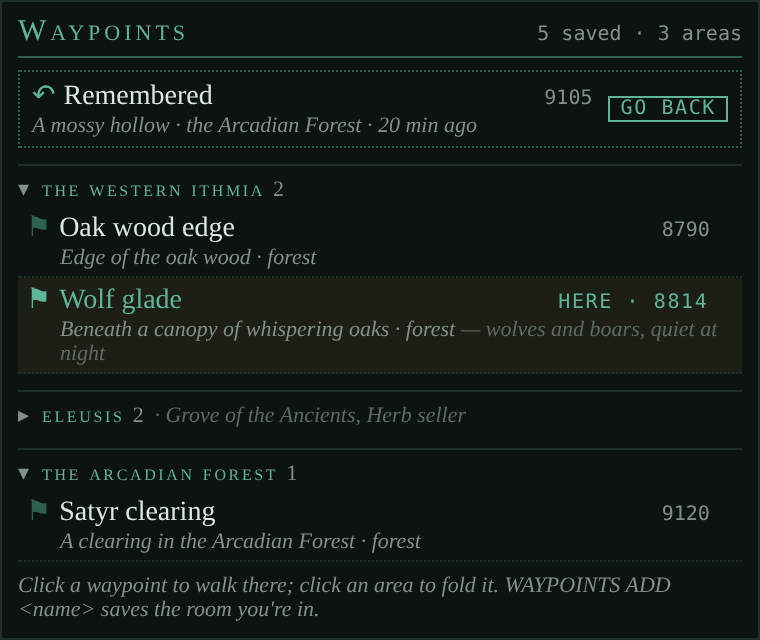
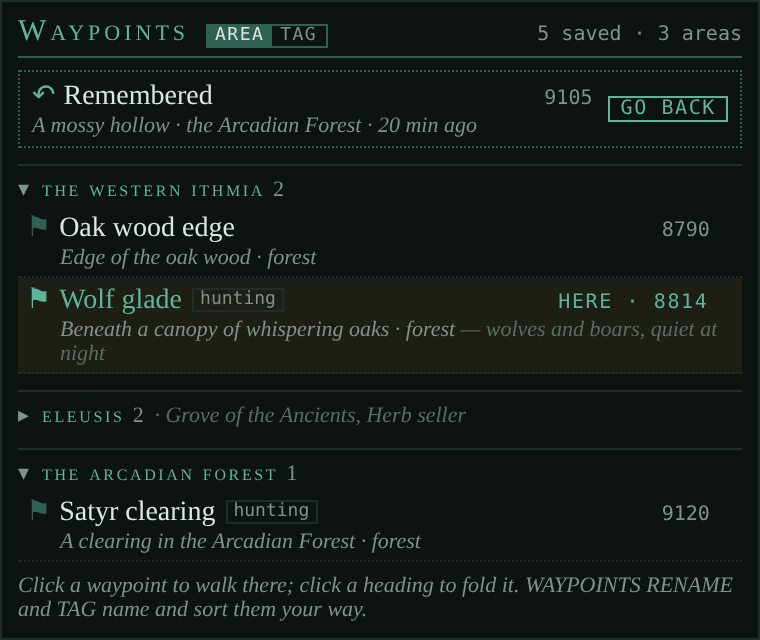
waypoints 0.2.0: tags, and the tab by area or by tag
Ricardo: several tags per waypoint (one word each, lower case), shown as
chips after the name; AREA · TAG on the title line (and WAYPOINTS VIEW
AREA|TAG) groups the tab by area or by tag, kept in waypoints_view. By
tag: a waypoint under each of its tags, alphabetical, untagged last, line
2 shows the area; tag groups fold (tag:<tag> in waypoints_folded).
Commands TAG, UNTAG (ALL), TAGS. Screenshot story tags four waypoints.

Claude-Session: https://claude.ai/code/session_019eyV5GfwXVVA9PCk5zPZet

diff --git a/packages/waypoints/waypoints_render.js b/packages/waypoints/waypoints_render.js
@@ -37,26 +37,39 @@ function chip(label, fn, col, border, tip) {
 var here = WP.here || {};
 var hereW = here.id ? WP.byId(here.id) : null;
 
-// Group by area: the area you're in first, then the rest by name.
-var groups = {}, order = [];
+// Groups, keyed as they fold: by area (the area you're in first, then the
+// rest by name), or by tag ("tag:<tag>", by name, a waypoint under each of
+// its tags; "tag:" for the untagged, last).
+var byTag = WP.view === "tag";
+var groups = {}, order = [], label = {};
+function put(key, lbl, w) { if (!groups[key]) { groups[key] = []; order.push(key); label[key] = lbl; } groups[key].push(w); }
 for (var i = 0; i < WP.list.length; i++) {
-  var a = WP.list[i].area || "unknown area";
-  if (!groups[a]) { groups[a] = []; order.push(a); }
-  groups[a].push(WP.list[i]);
+  var wi = WP.list[i];
+  if (!byTag) put(wi.area || "unknown area", wi.area || "unknown area", wi);
+  else if (!wi.tags.length) put("tag:", "untagged", wi);
+  else for (var ti = 0; ti < wi.tags.length; ti++) put("tag:" + wi.tags[ti], wi.tags[ti], wi);
 }
 order.sort(function (x, y) {
-  if (x === here.area) return -1;
-  if (y === here.area) return 1;
+  if (byTag) { if (x === "tag:") return 1; if (y === "tag:") return -1; }
+  else { if (x === here.area) return -1; if (y === here.area) return 1; }
   return x.toLowerCase() < y.toLowerCase() ? -1 : (x.toLowerCase() > y.toLowerCase() ? 1 : 0);
 });
 WP.areasDrawn = order.slice();
+var nGroups = 0;
+for (var ng = 0; ng < order.length; ng++) if (order[ng] !== "tag:") nGroups++;
 
 var html = '<div id="loom-waypoints" style="font-family:' + MONO + ';font-size:10px;color:' + TXT + ';background:' + BG + ';border:1px solid ' + RULE + ';padding:7px 8px 8px;min-height:100%;box-sizing:border-box;display:flex;flex-direction:column;">';
 
 // Title.
-var count = WP.list.length + ' saved' + (order.length ? ' &middot; ' + order.length + (order.length === 1 ? ' area' : ' areas') : '');
+var count = WP.list.length + ' saved' + (nGroups ? ' &middot; ' + nGroups + (byTag ? (nGroups === 1 ? ' tag' : ' tags') : (nGroups === 1 ? ' area' : ' areas')) : '');
+// AREA · TAG: how the list is grouped (remembered).
+function seg(v, lbl) {
+  var on = WP.view === v;
+  return '<span onclick="window.loomWaypoints&&window.loomWaypoints.view(\'' + v + '\')" title="group by ' + v + '" style="cursor:pointer;padding:0 4px;' + (on ? 'background:' + DEEP + ';color:' + TXT + ';' : 'color:' + MUTED + ';') + '">' + lbl + '</span>';
+}
+var viewSw = '<span style="flex:none;border:1px solid ' + DEEP + ';letter-spacing:0.08em;white-space:nowrap;font-size:9px;">' + seg("area", "AREA") + seg("tag", "TAG") + '</span>';
 html += '<div style="display:flex;justify-content:space-between;align-items:baseline;gap:8px;border-bottom:1px solid ' + DEEP + ';padding-bottom:3px;">';
-html += '<span style="font-family:' + SERIF + ';font-variant:small-caps;letter-spacing:2px;font-size:15px;color:' + AMBER + ';">Waypoints</span>';
+html += '<span style="display:flex;align-items:baseline;gap:8px;"><span style="font-family:' + SERIF + ';font-variant:small-caps;letter-spacing:2px;font-size:15px;color:' + AMBER + ';">Waypoints</span>' + (WP.list.length ? viewSw : '') + '</span>';
 html += '<span style="display:flex;align-items:baseline;gap:8px;"><span style="color:' + MUTED + ';">' + count + '</span>';
 if (here.id && !hereW) html += chip('&#8853; ADD HERE', 'add()', MUTED, DEEP, 'save the room you\'re in under its own title (WAYPOINTS RENAME to change it)');
 html += '</span></div>';
@@ -80,9 +93,18 @@ if (rem && rem.id) {
   html += '<span style="flex:none;padding:0 5px;border:1px solid ' + DEEP + ';color:' + MUTED + ';letter-spacing:0.08em;white-space:nowrap;">REMEMBER HERE</span></div>';
 }
 
-// The waypoints, by area.
+// The waypoints, by area or by tag.
+function tagChips(w, skip) {
+  var out = "";
+  for (var t = 0; t < w.tags.length; t++) {
+    if (w.tags[t] === skip) continue;
+    out += '<span style="display:inline-block;margin-left:5px;padding:0 3px;border:1px solid ' + RULE + ';color:' + MUTED + ';font-family:' + MONO + ';font-size:9px;font-style:normal;letter-spacing:0;vertical-align:2px;">' + esc(w.tags[t]) + '</span>';
+  }
+  return out;
+}
 for (var g = 0; g < order.length; g++) {
-  var area = order[g], ws = groups[area], folded = !!WP.folded[area];
+  var gk = order[g], ws = groups[gk], folded = !!WP.folded[gk];
+  var curTag = byTag && gk !== "tag:" ? gk.substring(4) : "";
   var names = "";
   if (folded) {
     var nl = [];
@@ -90,17 +112,17 @@ for (var g = 0; g < order.length; g++) {
     names = ' <span style="color:' + DIM + ';font-variant:normal;letter-spacing:0;font-style:italic;">&middot; ' + nl.join(', ') + '</span>';
   }
   html += '<div onclick="window.loomWaypoints&&window.loomWaypoints.fold(' + g + ')" title="click to ' + (folded ? 'unfold' : 'fold') + '" style="cursor:pointer;font-family:' + SERIF + ';font-variant:small-caps;letter-spacing:0.12em;font-size:11px;color:' + AMBER + ';margin:8px 0 2px;border-top:1px solid ' + RULE + ';padding-top:5px;">';
-  html += '<span style="font-family:' + SYM + ';display:inline-block;width:12px;color:' + MUTED + ';">' + (folded ? '&#9656;' : '&#9662;') + '</span>' + esc(area.toLowerCase()) + ' <span style="color:' + MUTED + ';">' + ws.length + '</span>' + names + '</div>';
+  html += '<span style="font-family:' + SYM + ';display:inline-block;width:12px;color:' + MUTED + ';">' + (folded ? '&#9656;' : '&#9662;') + '</span>' + esc(label[gk].toLowerCase()) + ' <span style="color:' + MUTED + ';">' + ws.length + '</span>' + names + '</div>';
   if (folded) continue;
   for (var k = 0; k < ws.length; k++) {
     var w = ws[k], isHere = here.id === w.id;
     var tip = isHere ? "you're here" : "walk to " + w.name + " (PATH FIND " + w.id + ")";
     html += '<div class="loom-wp-row" onclick="window.loomWaypoints&&window.loomWaypoints.go(\'' + js(w.id) + '\')" title="' + esc(tip) + '" style="cursor:pointer;padding:3px 4px;border-bottom:1px dotted ' + RULE + ';' + (isHere ? 'background:rgba(224,180,108,0.08);' : '') + '">';
     html += '<div style="display:flex;justify-content:space-between;align-items:baseline;gap:8px;">';
-    html += '<span style="min-width:0;font-family:' + SERIF + ';font-size:14px;color:' + (isHere ? AMBER : TXT) + ';"><span style="font-family:' + SYM + ';color:' + (isHere ? AMBER : DEEP) + ';margin-right:4px;">&#9873;</span>' + esc(w.name) + '</span>';
+    html += '<span style="min-width:0;font-family:' + SERIF + ';font-size:14px;color:' + (isHere ? AMBER : TXT) + ';"><span style="font-family:' + SYM + ';color:' + (isHere ? AMBER : DEEP) + ';margin-right:4px;">&#9873;</span>' + esc(w.name) + tagChips(w, curTag) + '</span>';
     html += '<span style="flex:none;white-space:nowrap;color:' + (isHere ? AMBER : MUTED) + ';' + (isHere ? 'letter-spacing:0.08em;' : '') + '">' + (isHere ? 'HERE &middot; ' : '') + esc(w.id);
     html += '<span class="loom-wp-x" onclick="event.stopPropagation();window.loomWaypoints&&window.loomWaypoints.remove(\'' + js(w.id) + '\')" title="remove ' + esc(w.name) + '" style="cursor:pointer;margin-left:6px;color:#ff9a4c;">&times;</span></span></div>';
-    var line2 = [w.room, (w.env || "").toLowerCase()].filter(function (s) { return s; }).map(esc).join(' &middot; ');
+    var line2 = [w.room, byTag ? w.area : (w.env || "").toLowerCase()].filter(function (s) { return s; }).map(esc).join(' &middot; ');
     html += '<div style="font-family:' + SERIF + ';font-style:italic;font-size:11px;color:' + MUTED + ';padding-left:17px;">' + line2 + (w.note ? ' <span style="color:' + DIM + ';">&mdash; ' + esc(w.note) + '</span>' : '') + '</div>';
     html += '</div>';
   }
@@ -108,7 +130,7 @@ for (var g = 0; g < order.length; g++) {
 if (!WP.list.length) {
   html += '<div style="margin-top:8px;font-family:' + SERIF + ';font-style:italic;font-size:12px;color:' + MUTED + ';">No waypoints yet.</div>';
 }
-html += '<div style="margin-top:auto;padding-top:6px;font-family:' + SERIF + ';font-style:italic;font-size:11px;color:' + MUTED + ';">Click a waypoint to walk there; click an area to fold it. WAYPOINTS RENAME gives a waypoint your own name.</div>';
+html += '<div style="margin-top:auto;padding-top:6px;font-family:' + SERIF + ';font-style:italic;font-size:11px;color:' + MUTED + ';">Click a waypoint to walk there; click a heading to fold it. WAYPOINTS RENAME and TAG name and sort them your way.</div>';
 html += '</div>';
 
 // The whole tab in the panel's colour (#355); the × shows on a row's hover.

diff --git a/packages/waypoints/waypoints_setup.js b/packages/waypoints/waypoints_setup.js
@@ -5,13 +5,16 @@
 if (!client.loom) client.loom = {};
 if (!client.loom.registry) client.loom.registry = {};
 if (!client.loom.waypoints) client.loom.waypoints = {};
-client.loom.registry.waypoints = { version: "0.1.1", keyword: "WAYPOINTS", desc: "{{description}}",
+client.loom.registry.waypoints = { version: "0.2.0", keyword: "WAYPOINTS", desc: "{{description}}",
   redraw: function () { run_function("waypoints_render", [], "waypoints"); } };
 var WP = client.loom.waypoints;
 
-// Saved: waypoints_list = [{ id, name, note, room, area, env, at }], where
+// Saved: waypoints_list = [{ id, name, note, room, area, env, at, tags }], where
 // room, area and env are the game's, read when the waypoint was added;
-// waypoints_folded = [area, …], the areas folded in the tab. A variable that
+// tags are your own words (lower case, several per waypoint);
+// waypoints_folded = [area, …, "tag:<tag>", …], the groups folded in the tab
+// ("tag:" alone is the untagged group); waypoints_view = "tag" when the tab
+// groups by tag (absent: by area). A variable that
 // isn't readable starts afresh (#135).
 WP.readList = function (name) {
   var v = get_variable(name);
@@ -23,11 +26,14 @@ var wpRaw = WP.readList("waypoints_list");
 for (var wpI = 0; wpI < wpRaw.length; wpI++) {
   var wpE = wpRaw[wpI];
   if (!wpE || typeof wpE != "object" || !/^\d+$/.test(String(wpE.id || "")) || !String(wpE.name || "").trim()) continue;
-  WP.list.push({ id: String(wpE.id), name: String(wpE.name).trim(), note: String(wpE.note || ""), room: String(wpE.room || ""), area: String(wpE.area || ""), env: String(wpE.env || ""), at: Number(wpE.at) || 0 });
+  var wpT = [];
+  if (Array.isArray(wpE.tags)) for (var wpK = 0; wpK < wpE.tags.length; wpK++) { var wpTg = String(wpE.tags[wpK] || "").toLowerCase(); if (/^[a-z0-9][a-z0-9_-]*$/.test(wpTg) && wpT.indexOf(wpTg) < 0) wpT.push(wpTg); }
+  WP.list.push({ id: String(wpE.id), name: String(wpE.name).trim(), note: String(wpE.note || ""), room: String(wpE.room || ""), area: String(wpE.area || ""), env: String(wpE.env || ""), at: Number(wpE.at) || 0, tags: wpT });
 }
 WP.folded = {};
 var wpF = WP.readList("waypoints_folded");
 for (var wpJ = 0; wpJ < wpF.length; wpJ++) if (typeof wpF[wpJ] == "string") WP.folded[wpF[wpJ]] = true;
+WP.view = get_variable("waypoints_view") === "tag" ? "tag" : "area";
 if (WP.here === undefined) WP.here = null;
 
 WP.save = function () {
@@ -83,7 +89,7 @@ WP.add = function (name) {
   if (!named && WP.byName(name)) name = name + " " + H.id;
   if (/^\d+$/.test(name)) { display_notice("[waypoints] give it a name, not a number: the number is the room's.", "orange"); return; }
   if (WP.byName(name)) { display_notice("[waypoints] " + WP.byName(name).name + " is taken: pick another name.", "orange"); return; }
-  WP.list.push({ id: H.id, name: name, note: "", room: H.name, area: H.area, env: H.env, at: Date.now() });
+  WP.list.push({ id: H.id, name: name, note: "", room: H.name, area: H.area, env: H.env, at: Date.now(), tags: [] });
   WP.save();
   display_notice("[waypoints] saved " + name + " (" + H.id + ", " + (H.name || "?") + (H.area ? ", " + H.area : "") + ")." + (named ? "" : " WAYPOINTS RENAME " + name + " <new name> to give it your own."), "lime");
 };
@@ -99,6 +105,32 @@ WP.go = function (w) {
   if (WP.here && WP.here.id === w.id) { display_notice("[waypoints] you're at " + WP.label(w) + " already.", "cyan"); return; }
   send_command("path find " + w.id, 1);
   display_notice("[waypoints] walking to " + WP.label(w) + ".", "cyan");
+};
+// Tags: words of letters, digits, - and _, kept in lower case.
+WP.tagWord = function (t) { t = String(t || "").toLowerCase(); return /^[a-z0-9][a-z0-9_-]*$/.test(t) ? t : ""; };
+WP.tag = function (w, words) {
+  var added = [], bad = [];
+  for (var i = 0; i < words.length; i++) {
+    var t = WP.tagWord(words[i]);
+    if (!t) { bad.push(words[i]); continue; }
+    if (w.tags.indexOf(t) < 0) { w.tags.push(t); added.push(t); }
+  }
+  if (added.length) WP.save();
+  if (added.length) display_notice("[waypoints] " + w.name + " tagged " + added.join(", ") + ".", "lime");
+  if (bad.length) display_notice("[waypoints] not a tag: " + bad.join(", ") + " (one word each: letters, digits, - and _).", "orange");
+  if (!added.length && !bad.length) display_notice("[waypoints] " + w.name + " has those tags already.", "cyan");
+};
+WP.untag = function (w, words) {
+  var gone = [];
+  if (words.length === 1 && words[0].toLowerCase() === "all") { gone = w.tags.slice(); w.tags = []; }
+  else for (var i = 0; i < words.length; i++) { var t = words[i].toLowerCase(), k = w.tags.indexOf(t); if (k >= 0) { w.tags.splice(k, 1); gone.push(t); } }
+  if (gone.length) { WP.save(); display_notice("[waypoints] " + w.name + ": removed tag " + gone.join(", ") + ".", "lime"); }
+  else display_notice("[waypoints] " + w.name + " has no such tag" + (w.tags.length ? " (its tags: " + w.tags.join(", ") + ")" : "") + ".", "orange");
+};
+WP.setView = function (v) {
+  WP.view = v === "tag" ? "tag" : "area";
+  if (WP.view === "tag") set_variable("waypoints_view", "tag"); else delete_variable("waypoints_view");
+  run_function("waypoints_render", [], "waypoints");
 };
 WP.fold = function (area) {
   WP.folded[area] = !WP.folded[area];
@@ -118,6 +150,7 @@ try {
   window.loomWaypoints = {
     go: function (id) { var w = client.loom.waypoints.byId(id); if (w) client.loom.waypoints.go(w); },
     remove: function (id) { var w = client.loom.waypoints.byId(id); if (w) client.loom.waypoints.remove(w); },
+    view: function (v) { client.loom.waypoints.setView(v); },
     fold: function (i) { var g = client.loom.waypoints.areasDrawn || []; if (g[i] !== undefined) client.loom.waypoints.fold(g[i]); },
     // Remembered box: room's own buttons, through loom (link room-waypoints).
     mark: function (what) {

diff --git a/packages/waypoints/alias_waypoints.js b/packages/waypoints/alias_waypoints.js
@@ -22,7 +22,7 @@ if (wpCmd === "" || wpCmd === "status") {
     display_notice("[waypoints] " + wpOrd[wpK] + ":", "cyan");
     for (var wpL = 0; wpL < wpBy[wpOrd[wpK]].length; wpL++) {
       var wpX = wpBy[wpOrd[wpK]][wpL];
-      display_notice("  " + wpX.name + " (" + wpX.id + ") " + (wpX.room || "") + (wpX.note ? " - " + wpX.note : ""), "cyan");
+      display_notice("  " + wpX.name + " (" + wpX.id + ") " + (wpX.room || "") + (wpX.tags.length ? " [" + wpX.tags.join(", ") + "]" : "") + (wpX.note ? " - " + wpX.note : ""), "cyan");
     }
   }
 } else if (wpCmd === "add") {
@@ -41,6 +41,21 @@ if (wpCmd === "" || wpCmd === "status") {
   var wpN = WP.split(wpRest);
   if (!wpN) display_notice("[waypoints] WAYPOINTS NOTE <name|number> <text>; no text clears the note.", "orange");
   else { wpN.w.note = wpN.rest; WP.save(); display_notice(wpN.rest ? "[waypoints] note on " + wpN.w.name + ": " + wpN.rest + "." : "[waypoints] note on " + wpN.w.name + " cleared.", "lime"); }
+} else if (wpCmd === "tag" || wpCmd === "untag") {
+  var wpG = WP.split(wpRest);
+  if (!wpG || !wpG.rest) display_notice("[waypoints] WAYPOINTS " + wpCmd.toUpperCase() + " <name|number> <tag> [tag…]" + (wpCmd === "untag" ? ", or ALL" : "") + ".", "orange");
+  else if (wpCmd === "tag") WP.tag(wpG.w, wpG.rest.split(/\s+/));
+  else WP.untag(wpG.w, wpG.rest.split(/\s+/));
+} else if (wpCmd === "tags") {
+  var wpTc = {}, wpTn = [];
+  for (var wpM = 0; wpM < WP.list.length; wpM++) for (var wpQ = 0; wpQ < WP.list[wpM].tags.length; wpQ++) { var wpTt = WP.list[wpM].tags[wpQ]; if (!wpTc[wpTt]) { wpTc[wpTt] = 0; wpTn.push(wpTt); } wpTc[wpTt]++; }
+  wpTn.sort();
+  display_notice(wpTn.length ? "[waypoints] tags: " + wpTn.map(function (t) { return t + " (" + wpTc[t] + ")"; }).join(", ") + "." : "[waypoints] no tags yet: WAYPOINTS TAG <name|number> <tag>.", "cyan");
+} else if (wpCmd === "view") {
+  var wpV = wpRest.toLowerCase();
+  if (wpV === "area" || wpV === "tag") { WP.setView(wpV); display_notice("[waypoints] the tab groups waypoints by " + wpV + ".", "lime"); }
+  else if (!wpV) display_notice("[waypoints] the tab groups waypoints by " + WP.view + ". WAYPOINTS VIEW AREA|TAG.", "cyan");
+  else display_notice("[waypoints] WAYPOINTS VIEW AREA|TAG.", "orange");
 } else if (wpCmd === "go") {
   wpW = WP.find(wpRest);
   if (wpW) WP.go(wpW);
@@ -50,7 +65,7 @@ if (wpCmd === "" || wpCmd === "status") {
   run_function("waypoints_render", [], "waypoints");
   display_notice("[waypoints] reset: saved waypoints reloaded, tab redrawn.", "lime");
 } else if (wpCmd === "debug") {
-  display_notice("[waypoints] here=" + JSON.stringify(WP.here) + " saved=" + WP.list.length + " folded=" + JSON.stringify(Object.keys(WP.folded).filter(function (a) { return WP.folded[a]; })), "cyan");
+  display_notice("[waypoints] here=" + JSON.stringify(WP.here) + " saved=" + WP.list.length + " view=" + WP.view + " folded=" + JSON.stringify(Object.keys(WP.folded).filter(function (a) { return WP.folded[a]; })), "cyan");
 } else {
   display_notice("[waypoints] unknown command '" + wpCmd + "'. WAYPOINTS HELP for commands.", "orange");
 }

diff --git a/packages/waypoints/waypoints_help.js b/packages/waypoints/waypoints_help.js
@@ -10,10 +10,14 @@ var hlRows = [
   ["WAYPOINTS REMOVE <name|number>", "forget one (also the × on its row in the tab)"],
   ["WAYPOINTS RENAME <name|number> <new name>", "give it another name"],
   ["WAYPOINTS NOTE <name|number> <text>", "a note under it in the tab; no text clears it"],
+  ["WAYPOINTS TAG <name|number> <tag> [tag…]", "tag it (one word each; as many tags as you like)"],
+  ["WAYPOINTS UNTAG <name|number> <tag>|ALL", "take a tag off, or all of them"],
+  ["WAYPOINTS TAGS", "every tag in use, with how many waypoints carry it"],
+  ["WAYPOINTS VIEW [AREA|TAG]", "group the tab by area or by tag (AREA · TAG in the tab too; kept)"],
   ["WAYPOINTS GO <name|number>", "walk there (PATH FIND), as a click in the tab"],
   ["WAYPOINTS RESET", "reload saved waypoints, redraw the tab"],
   ["WAYPOINTS DEBUG", "internal state"],
-  ["The tab is a custom tab named Waypoints. Click an area to fold it."]
+  ["The tab is a custom tab named Waypoints. Click a heading to fold it."]
 ];
 var hlW = 0;
 for (var hlI = 0; hlI < hlRows.length; hlI++) {

diff --git a/tools/screens.js b/tools/screens.js
@@ -103,6 +103,7 @@ function waypoints() {
   visit(8814, "Beneath a canopy of whispering oaks", "the Western Ithmia", "Forest", "Wolf glade", "wolves and boars, quiet at night");
   visit(9120, "A clearing in the Arcadian Forest", "the Arcadian Forest", "Forest", "Satyr clearing");
   visit(9105, "A mossy hollow", "the Arcadian Forest", "Forest");
+  for (const c of ["waypoints tag herb seller shop", "waypoints tag wolf glade hunting", "waypoints tag satyr clearing hunting", "waypoints tag grove of the ancients guild"]) type(c);
   type("room remember");
   sim.advance(20 * 60000);
   const W = client.loom.waypoints;

diff --git a/docs/waypoints.md b/docs/waypoints.md
@@ -1,9 +1,9 @@
 # Waypoints
 
-*Rooms you save by name, listed by area in a tab; one click walks you there.*
+*Rooms you save by name, listed by area or by tag in a tab; one click walks you there.*
 
 <!-- loom:version waypoints -->
-*This page describes waypoints 0.1.1.*
+*This page describes waypoints 0.2.0.*
 <!-- /loom:version -->
 
 ## What it is
@@ -13,7 +13,8 @@
 Waypoints keeps the rooms you want to come back to (a hunting spot, a shop, your guild hall), each under a name you give it and with an optional note, with no limit on how many. They're listed in a custom tab named **Waypoints**, grouped by area, and a click on one walks you there with the game's `PATH FIND <number>`.
 
 - **By area.** The area you're in comes first, the others follow by name. Click an area's header to fold it: a folded area keeps its count and lists its waypoints' names on the header line. Folding is remembered.
-- **Two lines a row.** The flag and the name you gave it, with the room number on the right; under it, the game's room name, its environment and your note.
+- **Or by tag.** Tag waypoints with your own words (`WAYPOINTS TAG rat spot hunting`), as many as you like, and switch the tab between **AREA** and **TAG** on its title line (or `WAYPOINTS VIEW AREA|TAG`; the choice is kept). By tag, a waypoint sits under each of its tags, tags in alphabetical order, the untagged last; tag groups fold like areas.
+- **Two lines a row.** The flag, the name you gave it and its tags as small chips, with the room number on the right; under it, the game's room name, its environment (its area when grouped by tag) and your note.
 - **Where you are.** A waypoint you're standing in is highlighted and reads `HERE`.
 - **Adding and removing.** `⊕ ADD HERE` on the title line, shown when the room you're in isn't saved yet, saves it under the room's own title (with its number added if another waypoint has that name); `WAYPOINTS RENAME` gives it your own. Hover a row for its `×`, which removes it at once.
 
@@ -32,11 +33,17 @@ Walking is the game's own `PATH FIND`: Waypoints sends it once per click and doe
 | `WAYPOINTS REMOVE <name\|number>` | forget one (also the × on its row in the tab) |
 | `WAYPOINTS RENAME <name\|number> <new name>` | give it another name |
 | `WAYPOINTS NOTE <name\|number> <text>` | a note under it in the tab; no text clears it |
+| `WAYPOINTS TAG <name\|number> <tag> [tag…]` | tag it (one word each; as many tags as you like) |
+| `WAYPOINTS UNTAG <name\|number> <tag>\|ALL` | take a tag off, or all of them |
+| `WAYPOINTS TAGS` | every tag in use, with how many waypoints carry it |
+| `WAYPOINTS VIEW [AREA\|TAG]` | group the tab by area or by tag (AREA · TAG in the tab too; kept) |
 | `WAYPOINTS GO <name\|number>` | walk there (PATH FIND), as a click in the tab |
 | `WAYPOINTS RESET` | reload saved waypoints, redraw the tab |
 | `WAYPOINTS DEBUG` | internal state |
-| **The tab is a custom tab named Waypoints. Click an area to fold it.** | |
+| **The tab is a custom tab named Waypoints. Click a heading to fold it.** | |
 <!-- /loom:commands -->
+
+A tag is one word (letters, digits, `-` and `_`), kept in lower case: `WAYPOINTS TAG bank shop city` adds two, `WAYPOINTS UNTAG bank city` takes one off, `WAYPOINTS UNTAG bank ALL` clears them. `WAYPOINTS TAGS` lists the tags in use.
 
 Names can have spaces: `WAYPOINTS RENAME rat spot Big rat spot` renames "Rat spot" to "Big rat spot", and `WAYPOINTS NOTE rat spot quiet at night` puts that note under it. A waypoint can also be named by its room number: `WAYPOINTS GO 5001`. Two waypoints can't share a name, and a room is saved once.
 
@@ -48,7 +55,7 @@ Names can have spaces: `WAYPOINTS RENAME rat spot Big rat spot` renames "Rat spo
 
 ## Daily use
 
-Click a waypoint to go there; `PATH FIND` walks you, and the game stops it if something's in the way. Fold the areas you don't use often. Add a note to anything you'd otherwise forget about a place: who buys what, which mobs, when it's quiet.
+Click a waypoint to go there; `PATH FIND` walks you, and the game stops it if something's in the way. Fold the areas you don't use often, or tag the places you go for one reason (shops, hunting, quests) and switch to TAG when that's what you're after. Add a note to anything you'd otherwise forget about a place: who buys what, which mobs, when it's quiet.
 
 ## Working with other packages
 

diff --git a/docs/dev/regression.md b/docs/dev/regression.md
@@ -142,7 +142,7 @@ For each class you can play (one row each; the ones you can't, skip): F1 attacks
 - [ ] `SOCIAL CLEAR friends` warns with the count; `SOCIAL CLEAR friends CONFIRM` empties it, Online updates.
 - [ ] `CITY ENEMIES`: "city enemies loaded n / n". `SOCIAL SYNC OFF` (kept after a reload), `CITY ENEMIES`: no notice, enemies group unchanged; `SYNC ON` loads it again.
 - [ ] **Online tab:** watched people online with colours and "online for"; arrivals glow, departures grey then go; OFFLINE with "last seen" (survives a reload), folds on click or `SOCIAL OFFLINE OFF`. `WATCH`/`UNWATCH` updates it at once.
-- [ ] **Waypoints:** custom tab `Waypoints`. `WAYPOINTS ADD Rat spot` in a room: it appears under its area, highlighted with HERE; Here shows `⚑ Rat spot`. Elsewhere ⊕ ADD HERE saves the room under its title (its number added when the name is taken). `WAYPOINTS NOTE rat spot quiet at night`, `RENAME rat spot Big rats`: the tab and Here's hover follow. Click the row in another room: `PATH FIND` walks there. Click an area header: folds (names on the header), kept after a reload. × on hover removes it at once. REMEMBER in Here: pinned at the top with GO BACK; FORGET while in it; nothing remembered: REMEMBER HERE.
+- [ ] **Waypoints:** custom tab `Waypoints`. `WAYPOINTS ADD Rat spot` in a room: it appears under its area, highlighted with HERE; Here shows `⚑ Rat spot`. Elsewhere ⊕ ADD HERE saves the room under its title (its number added when the name is taken). `WAYPOINTS NOTE rat spot quiet at night`, `RENAME rat spot Big rats`: the tab and Here's hover follow. Click the row in another room: `PATH FIND` walks there. Click an area header: folds (names on the header), kept after a reload. × on hover removes it at once. `WAYPOINTS TAG rat spot hunting quiet`: two chips on its row; TAG in the title (or `WAYPOINTS VIEW TAG`) groups by tag, untagged last, line 2 shows the area; `UNTAG … ALL`; `WAYPOINTS TAGS`; the view is kept after a reload. REMEMBER in Here: pinned at the top with GO BACK; FORGET while in it; nothing remembered: REMEMBER HERE.
 - [ ] **Comms:** says, tells both ways, party, clan and city lines in All, in the same colours as the main window, tagged; date and time on hover; names of people in social's groups coloured anywhere in a line; unread counts on filters, cleared on viewing; Tells newest first, click opens the conversation; click a name → `t <name> `; mute from the tab and `COMMS MUTE`, kept after a reload; header stays at the top.
 - [ ] **Comms filters:** Say, Tell, Party, Yell, Shout, City, House, HNT, Clans, then the rest alphabetically. Your clans under **Clans** with one badge; a tag opens one clan, ← clans returns; mute one clan. Emotes, deathsight and partycomms' `[PARTY]` reports never appear (not in All, not counted on Party); ordinary party talk does.
 - [ ] **Comms scrolling:** through a busy stretch (well past 200 lines) All stays on the newest line, no jumping. Scroll up to read: the tab stays put while lines come in. Back at the bottom: it follows again. After a reload it opens at the newest lines; switching views starts at the newest.

diff --git a/README.md b/README.md
@@ -47,7 +47,7 @@ their tab its own icon.
 | **standings** | Standings | Standings with adventurers and organisations, kept per character. `STANDINGS HELP`. Reads **social**'s lists (chips on a person) and **ledger**'s Achaean date if present. Other packages can suggest dealings through loom's integrations (hunting together, gold gifts; marked with their source in the review list); nothing is recorded until `STANDINGS OK` (`STANDINGS SKIP` dismisses). Bands: Nemesis, Hostile, Strained, Neutral, Acquaintance, Friend, Soulmate, each with an icon. |
 | **talpieces** | Talismans | Dragon talisman piece tracker: pieces counted as you find, trade and list them, still-needed table, progress history with a projected finish. Can queue `TALISMAN COMBINE` for each row of your listing (`TALPIECES COMBINE ON\|OFF`). `TALPIECES HELP`. Replaces **talismans** (same Talismans tab; the TalGraph tab is gone, close it). Reads nothing from other packages. With **ledger** installed, a reminder when a colour's set is complete, and one listing spare pieces to trade once you hold 16 or more (link `talpieces-ledger`). |
 | **vials** | — | Refill your vials from the rift: `VIALS REFILL <elixir\|ALL>`, with the vial for each elixir read from ELIXLIST (`VIALS LEARN`) or set by hand (`VIALS SET <elixir> <vial> [...]`, several pairs on one line), `VIALS` lists them with sips and decay, `FORGET`, `HELP`. Replaces loom's `REFILLVIAL`. Reads nothing from other packages. |
-| **waypoints** | Waypoints | Rooms you save by name, with an optional note and no limit: the tab lists them by area (areas fold, the room you're in highlighted), and a click walks you there with `PATH FIND`. `WAYPOINTS ADD [name]` (or ⊕ ADD HERE in the tab: the room's own title), `REMOVE` (or × on hover), `RENAME`, `NOTE`, `GO`, `LIST`, `HELP`. Reads nothing from other packages. With **room**, a saved room shows ⚑ and its name in Here (link `waypoints-room`), and Here's remembered room is pinned at the top of the tab with GO BACK (link `room-waypoints`). |
+| **waypoints** | Waypoints | Rooms you save by name, with an optional note and no limit: the tab lists them by area or by tag (headings fold, the room you're in highlighted), and a click walks you there with `PATH FIND`. `WAYPOINTS ADD [name]` (or ⊕ ADD HERE in the tab: the room's own title), `REMOVE` (or × on hover), `RENAME`, `NOTE`, `TAG`/`UNTAG` (several tags each), `VIEW AREA|TAG` (or AREA · TAG in the tab: grouped by area or by tag), `GO`, `LIST`, `HELP`. Reads nothing from other packages. With **room**, a saved room shows ⚑ and its name in Here (link `waypoints-room`), and Here's remembered room is pinned at the top of the tab with GO BACK (link `room-waypoints`). |
 | **vision** | — | Alertness filter: hides reports about city members and, for enemies, colours the line and alerts the party. `VISION ON\|OFF`, `HIDE ON\|OFF`, `ALERT ON\|OFF`, `CHANNEL <channel>`, `HELP`. Reads **social**'s city and enemies lists if present. |
 
 ### Integrations

diff --git a/docs/dev/variables.md b/docs/dev/variables.md
@@ -456,5 +456,6 @@ Crystalism's and artificing's settings, merged into magi in 0.1.0 (the old names
 
 | Variable | Kind | Since | Holds | Was |
 |---|---|---|---|---|
-| `waypoints_list` | data | 1.1 | saved rooms: number, name, note, and the game's room name, area and environment |  |
-| `waypoints_folded` | setting | 1.1 | areas folded in the tab |  |
+| `waypoints_list` | data | 1.1 | saved rooms: number, name, note, tags, and the game's room name, area and environment |  |
+| `waypoints_folded` | setting | 1.1 | areas and tags (`tag:<tag>`) folded in the tab |  |
+| `waypoints_view` | setting | 1.1 | `tag` when the tab groups by tag (absent: by area) |  |

diff --git a/docs/README.md b/docs/README.md
@@ -23,7 +23,7 @@ Every integration between packages is listed on the [loom page](loom.md#integrat
 | [standings](standings.md) | Standings | Standings with adventurers and organisations, kept per character |
 | [self](self.md) | Self | Character panel: afflictions, defences you watch, and SCORE details |
 | [vision](vision.md) | — | Alertness filter: hides city members, flags and reports enemies |
-| [waypoints](waypoints.md) | Waypoints | Rooms you save by name, listed by area; one click walks you there |
+| [waypoints](waypoints.md) | Waypoints | Rooms you save by name, listed by area or tag; one click walks you there |
 
 ## Hunting and combat
 
